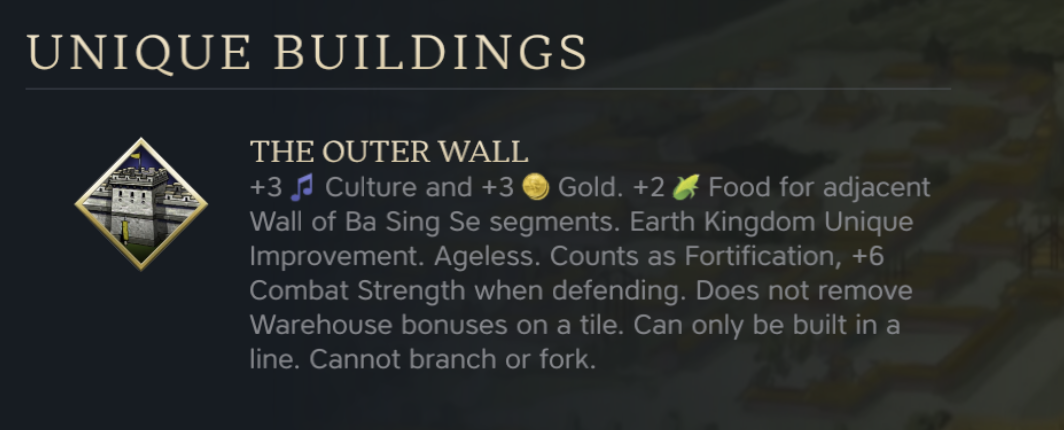
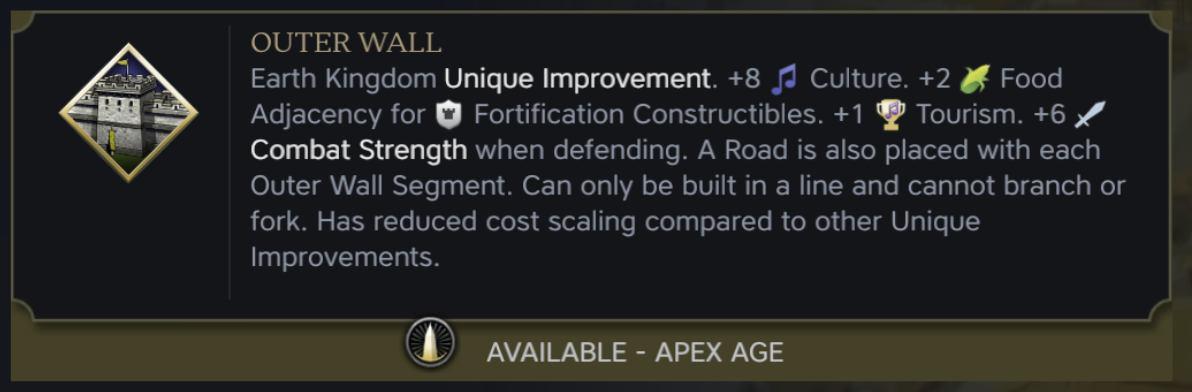
updated README

diff --git a/README.md b/README.md
@@ -4,7 +4,7 @@ Author: Austin Nicolas
 
 Version: 1.1.1
 
-Inspired by the Earth Kingdom from Avatar the Last Airbender. A modern age civilization focused on Specialists and high food cities, Trade, and having Wars declared on you.
+Inspired by the Earth Kingdom from Avatar the Last Airbender. A modern age civilization focused on specialists and high food cities, trade, and having wars declared on you.
 
 ## Special Thanks:
 
@@ -26,37 +26,65 @@ Lore assistance and some images from the Avatar the Last Airbender Wiki [link he
 
 ## Current Mod:
 
-### Unique Ability: The World's Farm
+### Unique Ability: Hundred Year's War
 
-Specialists have no Food Maintenance cost.
+<ul>
+    <li>Gain +1 Settlement Limit and a free Cabbage Merchant in your Capital when a War is declared against you.</li>
+    <li>Settlement Limit is not awarded from Civics.</li>
+    <li>All Settlements gain +3 Food and Happiness for every connected Settlement, doubled in a War declared against you.</li>
+</ul>
 
-![Image of the Unique Ability of the Earth Kingdom on the loading screen.](images/unique-ability.png?raw=true "Earth Kingdom Unique Ability.")
+![Image of the Unique Ability of the Earth Kingdom in Modern on the loading screen.](images/unique-ability-mo.png?raw=true "Earth Kingdom Unique Ability Modern.")
+
+The unique ability is slightly different for earlier ages.
+
+![Image of the Unique Ability of the Earth Kingdom in Antiquity on the loading screen.](images/unique-ability-aq.png?raw=true "Earth Kingdom Unique Ability Antiquity.")
+
+![Image of the Unique Ability of the Earth Kingdom in Exploration on the loading screen.](images/unique-ability-ex.png?raw=true "Earth Kingdom Unique Ability Exploration.")
 
 ### Unique Units: Earthbender and Cabbage Merchant
 
-The Earthbender is an Earth Kingdom Unique Infantry Unit. Has a higher Combat Strength. Has a Ranged attack. Increased Combat Strength against Enemy Units in your territory. More expensive to train.
+The Earthbender is an Earth Kingdom Unique Infantry Unit. +5 Combat Strength. Has a Ranged attack. +5 Combat Strength in your territory. More expensive to train.
 
 The Cabbage Merchant is an Earth Kingdom Unique Merchant. Civilian who can establish a Trade Route to import Resources from a foreign Settlement. Cost increase is halved
 
 ![Image of the Unique Units of the Earth Kingdom on the loading screen.](images/unique-units.png?raw=true "Earth Kingdom Unique Units.")
 
-### Unique Improvements: The Outer Wall
+### Unique Improvements: Outer Wall
 
-+3 Culture and +3 Gold. +2 Food for adjacent The Outer Wall segments. Earth Kingdom Unique Improvement. Ageless. Counts as Fortification, +6 Combat Strength when defending. Does not remove Warehouse bonuses on a tile. Can only be built in a line. Cannot branch or fork.
+The Outer Wall is an Earth Kingdom Unique Improvement. +8 Culture. +2 Food for adjacent Fortification Constructibles. +1 Tourism. +6 Combat Strength when defending. A Road is also placed with each Outer Wall Segment. Can only be built in a line. Cannot branch or fork. Has reduced cost scaling compared to other Unique Improvements.
 
 ![Image of the Unique Improvement of the Earth Kingdom on the loading screen.](images/unique-improvements.png?raw=true "Earth Kingdom The Outer Wall.")
 
 ###  Traditions:
 
+Antiquity:
+
+Omashu Delivery System I: +2 Gold for every imported Resource.
+
+Daofei I (Unlocked with Syncretism): +1 Influence in Towns, doubled in a War declared against you. +10 Trade Route Range.
+
+![Image of the Antiquity Traditions of the Earth Kingdom on the loading screen.](images/traditions-aq.png?raw=true "Earth Kingdom Antiquity Traditions.")
+
+Exploration:
+
+Feed the Queen I: +6 Food from Specialists in the Capital. +1 Food Maintenance on Specialists in Cities other than your Capital.
+
+Daofei II (Unlocked with Syncretism): +2 Influence in Towns, doubled in a War declared against you. +15 Trade Route Range.
+
+![Image of the Exploration Traditions of the Earth Kingdom on the loading screen.](images/traditions-ex.png?raw=true "Earth Kingdom Exploration Traditions.")
+
+Modern:
+
 Excessive Tax: Cities gain a bonus to Gold equal to 10% of that City's Food, doubled in a War declared against you.
 
-Feed the Queen: +3 Food from Specialists.
+Feed the Queen II: +9 Food from Specialists in the Capital. +2 Food Maintenance on Specialists in Cities other than your Capital.
 
-Omashu Delivery System: +1 Resource Slot. +3 Gold for every imported Resource.
+Omashu Delivery System II: +1 Resource Capacity in all Settlements. +5 Gold for every imported Resource.
 
-The Hundred Years War: Gain 3 War Support on all wars declared against you
+Metalbenders: +1 Gold and Production on Rough Terrain and Mines on Resources, doubled in a War declared against you. Rough Terrain does not end Unit Movement.
 
-![Image of the Traditions of the Earth Kingdom on the loading screen.](images/traditions.png?raw=true "Earth Kingdom Traditions.")
+![Image of the Modern Traditions of the Earth Kingdom on the loading screen.](images/traditions-mo.png?raw=true "Earth Kingdom Modern Traditions.")
 
 ###  Wonder: Earth Monarch Palace
 
@@ -68,34 +96,28 @@ The Hundred Years War: Gain 3 War Support on all wars declared against you
 
 ### Unique Civics:
 
-Siege of Ba Sing Se: Unlocks The Outer Wall Unique Improvement and the Excessive Tax Tradition.
+Siege of Ba Sing Se: Unlocks The Outer Wall Unique Improvement and the Excessive Tax Tradition. +1 Tradition Slot.
 
 "You once laid siege to Ba Sing Se for 600 days, but it would not yield to you." - Earth Bender Captain to Iroh
 
-Royal Propaganda: Unlocks the Feed the Queen Tradition. +20% growth in the Capital.
+Royal Propaganda: Unlocks the Feed the Queen II Tradition and the Earth Monarch Palace Wonder.
 
 "There's no war in Ba Sing Se." - Dai Li Agent
 
-Mastery: Unlocks the Earth Monarch Palace Wonder. +3 Food in the Capital for every connected Settlement.
-
-Long Lost Love: Unlocks the Omashu Delivery System Tradition. You may establish and keep Trade Routes with Cities you are at War with.
+Long Lost Love: Unlocks the Omashu Delivery System II Tradition. +15 Trade Route Range.
 
 "Love is brightest in the dark." - Oma and Shu's tomb
 
-Mastery: +10 range for all Trade Routes.
-
-The Impenetrable City: Unlocks The Hundred Years War Tradition. +1 Specialist Limit in the Capital.
+The Impenetrable City: Unlocks the Metalbenders Tradition. +1 Specialist Limit in the Capital.
 
 "The city is called Ba Sing Se. It's the impenetrable city. They don't call it Na Sing Se. That means penetrable city." - General Sung
 
-Mastery: +1 Settlement Limit.
+![Image of the Unique Civics of the Earth Kingdom.](images/unique-civics.png?raw=true "Earth Kingdom Unique Civics")
 
-![Image of the Unique Civics of the Earth Kingdom with three highlighted.](images/unique-civics-1.png?raw=true "Earth Kingdom Unique Civics, first three.")
-![Image of the Unique Civics of the Earth Kingdom with four highlighted.](images/unique-civics-2.png?raw=true "Earth Kingdom Unique Civics, last four.")
 
 ### Unique Narrative Events:
 
-4 Unique Narrative Events with more on the way!
+7 Unique Narrative Events with more on the way!
 
 ### Unlocks:
 
@@ -109,7 +131,11 @@ Mastery: +1 Settlement Limit.
 
 ## Possible Strategies:
 
-Here are some possible strategies to try while playing as the Earth Kingdom, one for each Victory Type in Modern. The Earth Kingdom is more geared towards the Militaristic and Economic Victory Conditions.
+Here are some possible strategies to try while playing as the Earth Kingdom, one for each Victory Type. The Earth Kingdom is more geared towards the Militaristic and Economic Victory Conditions.
+
+### General Advice:
+
+Since the Earth Kingdom does not gain Settlement Limit from Civics you will have 10 less Settlement Limit if you play them all three ages. Thus you should focus on getting additional Settlement Limit from Militaristic and Expansionist City States and Attribute Points. Additionally, goading your neighbors into declaring wars on you will increase the limit for each war declared. Constantly being in defensive wars is crucial to maximizing the Earth Kingdom bonuses.
 
 ### Getting Wars Declared on You:
 
@@ -119,17 +145,17 @@ Leader: Harriet Tubman
 
 Victory: Militaristic
 
-Focus on Infantry in the first two ages, as they will become Earthbenders in Modern. Earthbenders are an Infantry Unit, though they have a Ranged Attack and count as a Ranged Unit, so they will benefit from Ranged Bonuses like the Storm Promotion. They are more expensive but have +5 Strength. Use Tubman's Spying advantages to make some enemies and use the Denounce Military Presence Action so that they declare war on you. The Excessive Tax Tradition will convert 20% of your Cities food into Gold to help fund the War. Tubman's 5 War Support when combined with the Hundred Years War Tradition gives 8 War Support. This can be further increased with Gate of All Nations, the Brandenburg Gate, and the Militaristic Attribute. Use this War Support to decimate your enemies.
+Focus on Infantry in the first two ages, as they will become Earthbenders in Modern. Earthbenders are an Infantry Unit, though they have a Ranged Attack and count as a Ranged Unit, so they will benefit from Ranged Bonuses like the Storm Promotion. They are more expensive but have +5 Strength. Use Tubman's Spying advantages to make some enemies and use the Denounce Military Presence Action so that they declare war on you. The Excessive Tax Tradition will convert 20% of your Cities food into Gold to help fund the War. Hundred Year's War, will give all your connected settlements more food and happiness. Tubman gains 5 War Support for defensive wars. This can be further increased with Gate of All Nations, the Brandenburg Gate, and the Militaristic Attribute. Use this War Support to decimate your enemies.
 
 ### Maximize Food:
 
-Previous Civs: Missisipians / Khmer, Inca / Shawnee
+Previous Civs: Missisipians / Khmer, Inca / Shawnee, or Earth Kingdom all three ages
 
 Leader: Pachacuti / Ashoka World Renouncer
 
 Victory: Economic
 
-The previous Civilizations and the Leaders will give you a huge food base. The World's Farm Unique Ability combined with the Feed the Queen Tradition mean Specialists will actually give your Cities more food. Specialize towns to feed giant cities. Use the Excessive Tax Tradition to convert this food to gold to buy Factories and Rail Stations. The Omashu Delivery System Tradition will also increase Resource Slots in all Settlements. Be sure to get the Long Lost Love Civic so that your Trade Routes are not interrupted by Wars.
+The previous Civilizations and the Leaders will give you a huge food base. The Hundred Year's War Unique Ability combined with the Feed the Queen Tradition mean Specialists will actually give your Capital more food. Specialize towns to feed your giant capital. Keep all your settlements connected to take advantage of the Unique Ability. Use the Excessive Tax Tradition to convert this food to gold to buy Factories and Rail Stations. The Omashu Delivery System Tradition will also increase Resource Slots in all Settlements. Be sure to get the Long Lost Love Civic to increase your Trade Route Range.
 
 ### Specialist Science:
 
@@ -139,11 +165,11 @@ Leader: Confucius
 
 Victory: Science
 
-The Tianxia Tradition from the Han and the Ulema Quarter from the Abbasids combined with Confucius gives +4 Science per Specialist. This can be further increased with the Scientific Attribute for an additional +1 Science (+2 if you have 3 Cities or less). Use the high growth rates from Confucius and the Food bonuses from the Earth Kingdom (See the Maximize Food Strategy) to have lots of Specialists. Use the Earth Kingdom Gold Bonuses to buy Science Buildings. The Earth Monarch Palace will add 2 Gold to your Specialists and the Impenetrable City Civic will increase the Specialist Cap in the Capital by 1 allowing you to place even more specialists.
+The Ju Xian I Tradition from the Han and the Ulema Quarter from the Abbasids combined with Confucius gives +4 Science per Specialist. This can be further increased with the Scientific Attribute for an additional +1 Science (+2 if you have 3 Cities or less). Use the high growth rates from Confucius and the Food bonuses from the Earth Kingdom (See the Maximize Food Strategy) to have lots of Specialists. Use the Earth Kingdom Gold Bonuses to buy Science Buildings. The Earth Monarch Palace will add 2 Gold to your Specialists and the Impenetrable City Civic will increase the Specialist Cap in the Capital by 1 allowing you to place even more specialists.
 
 ### Unique Infrastructure:
 
-Previous Civs: Han, Ming
+Previous Civs: Han, Ming, or Earth Kingdom all the way and Syncretize
 
 Leader: Xerxes the Achaemenid
 
